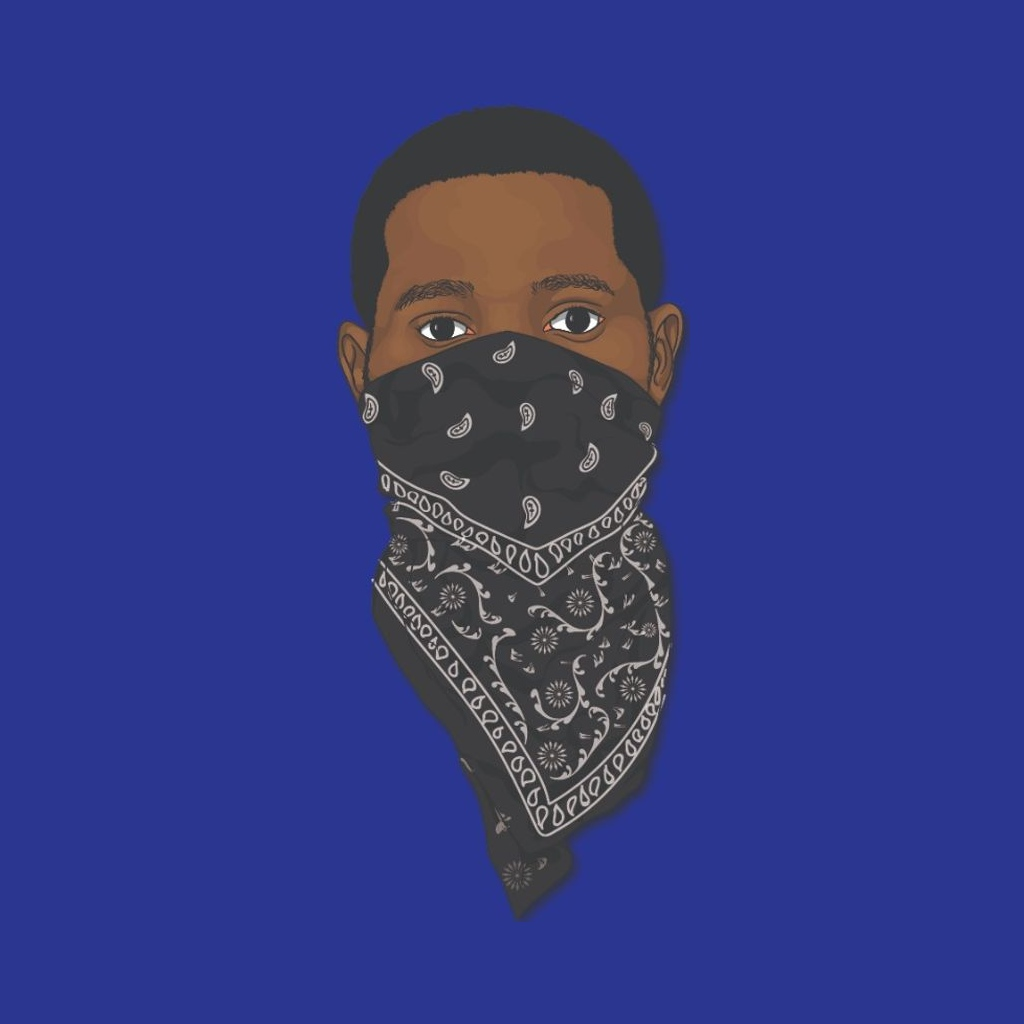
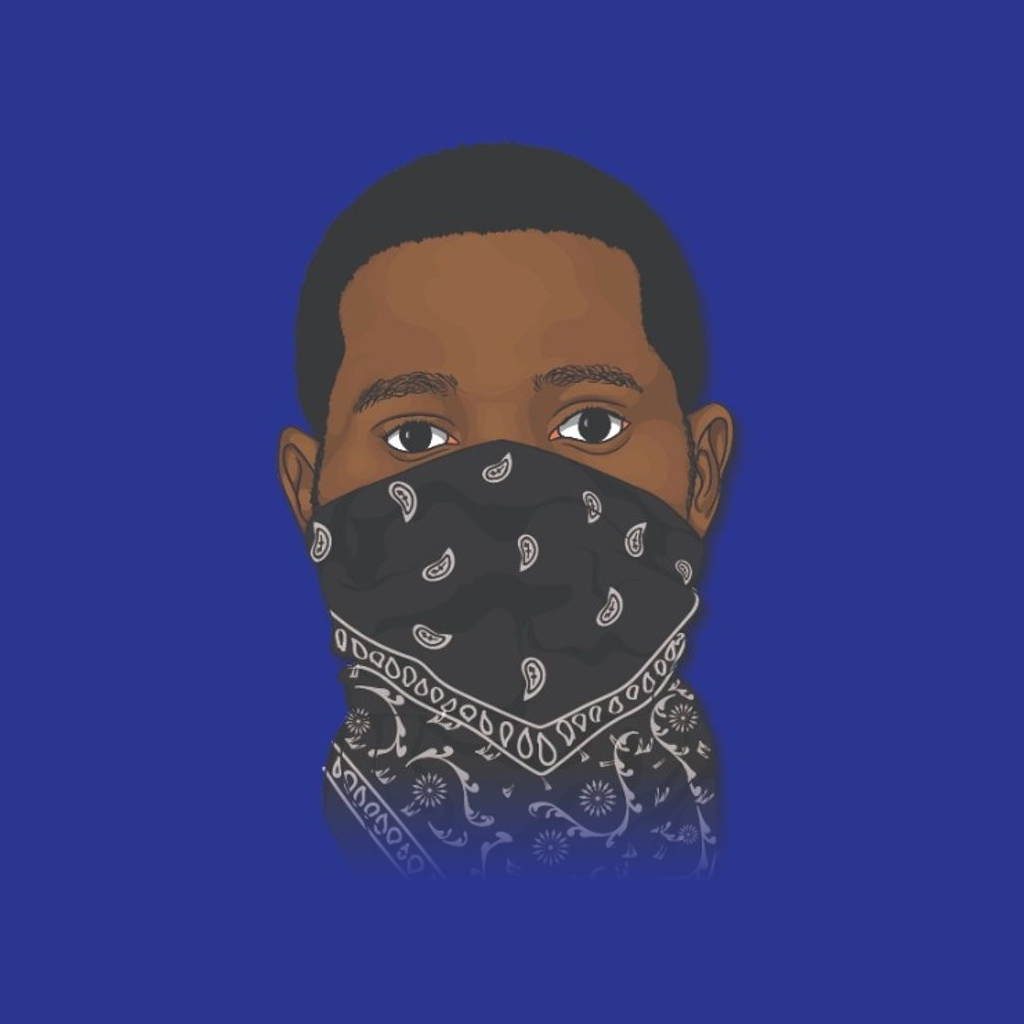
feat(illustration): zoom bandana upper face to match portrait scale, clipping lower tail with soft fade

Changed region(s): [[0.25, 0.0938, 0.75, 0.9062]]

diff --git a/components/sections/works-section.tsx b/components/sections/works-section.tsx
@@ -19,7 +19,7 @@ const ILLUSTRATION_IMAGES = [
   { src: "/works/illustrations/drip-portrait-female-v2.jpg", title: "Joyful Drip Portrait", bg: "#ffffff" },
   { src: "/works/illustrations/drip-portrait-male-v2.jpg", title: "Shaded Drip Portrait", bg: "#ffffff" },
   { src: "/works/illustrations/expressive-portrait-v2.png", title: "Ecstatic Expression", bg: "#57a1ab" },
-  { src: "/works/illustrations/bandana-portrait-v2.jpg", title: "Paisley Masked Portrait", bg: "#2b3690" },
+  { src: "/works/illustrations/bandana-portrait-v3.jpg", title: "Paisley Masked Portrait", bg: "#2b3690" },
 ];
 
 function BrandIdentityAnimatedCard() {

diff --git a/lib/portfolio-data.ts b/lib/portfolio-data.ts
@@ -105,7 +105,7 @@ export const PORTFOLIO_CATEGORIES: PortfolioCategory[] = [
         id: "il-bandana-portrait",
         title: "Paisley Masked Portrait",
         year: "2026",
-        imageUrl: "/works/illustrations/bandana-portrait-v2.jpg",
+        imageUrl: "/works/illustrations/bandana-portrait-v3.jpg",
         description: "Striking vector character portrait featuring an intense gaze and ornate black paisley bandana over royal cobalt blue canvas.",
         aspectRatio: "1/1",
         bgColor: "#2b3690",
